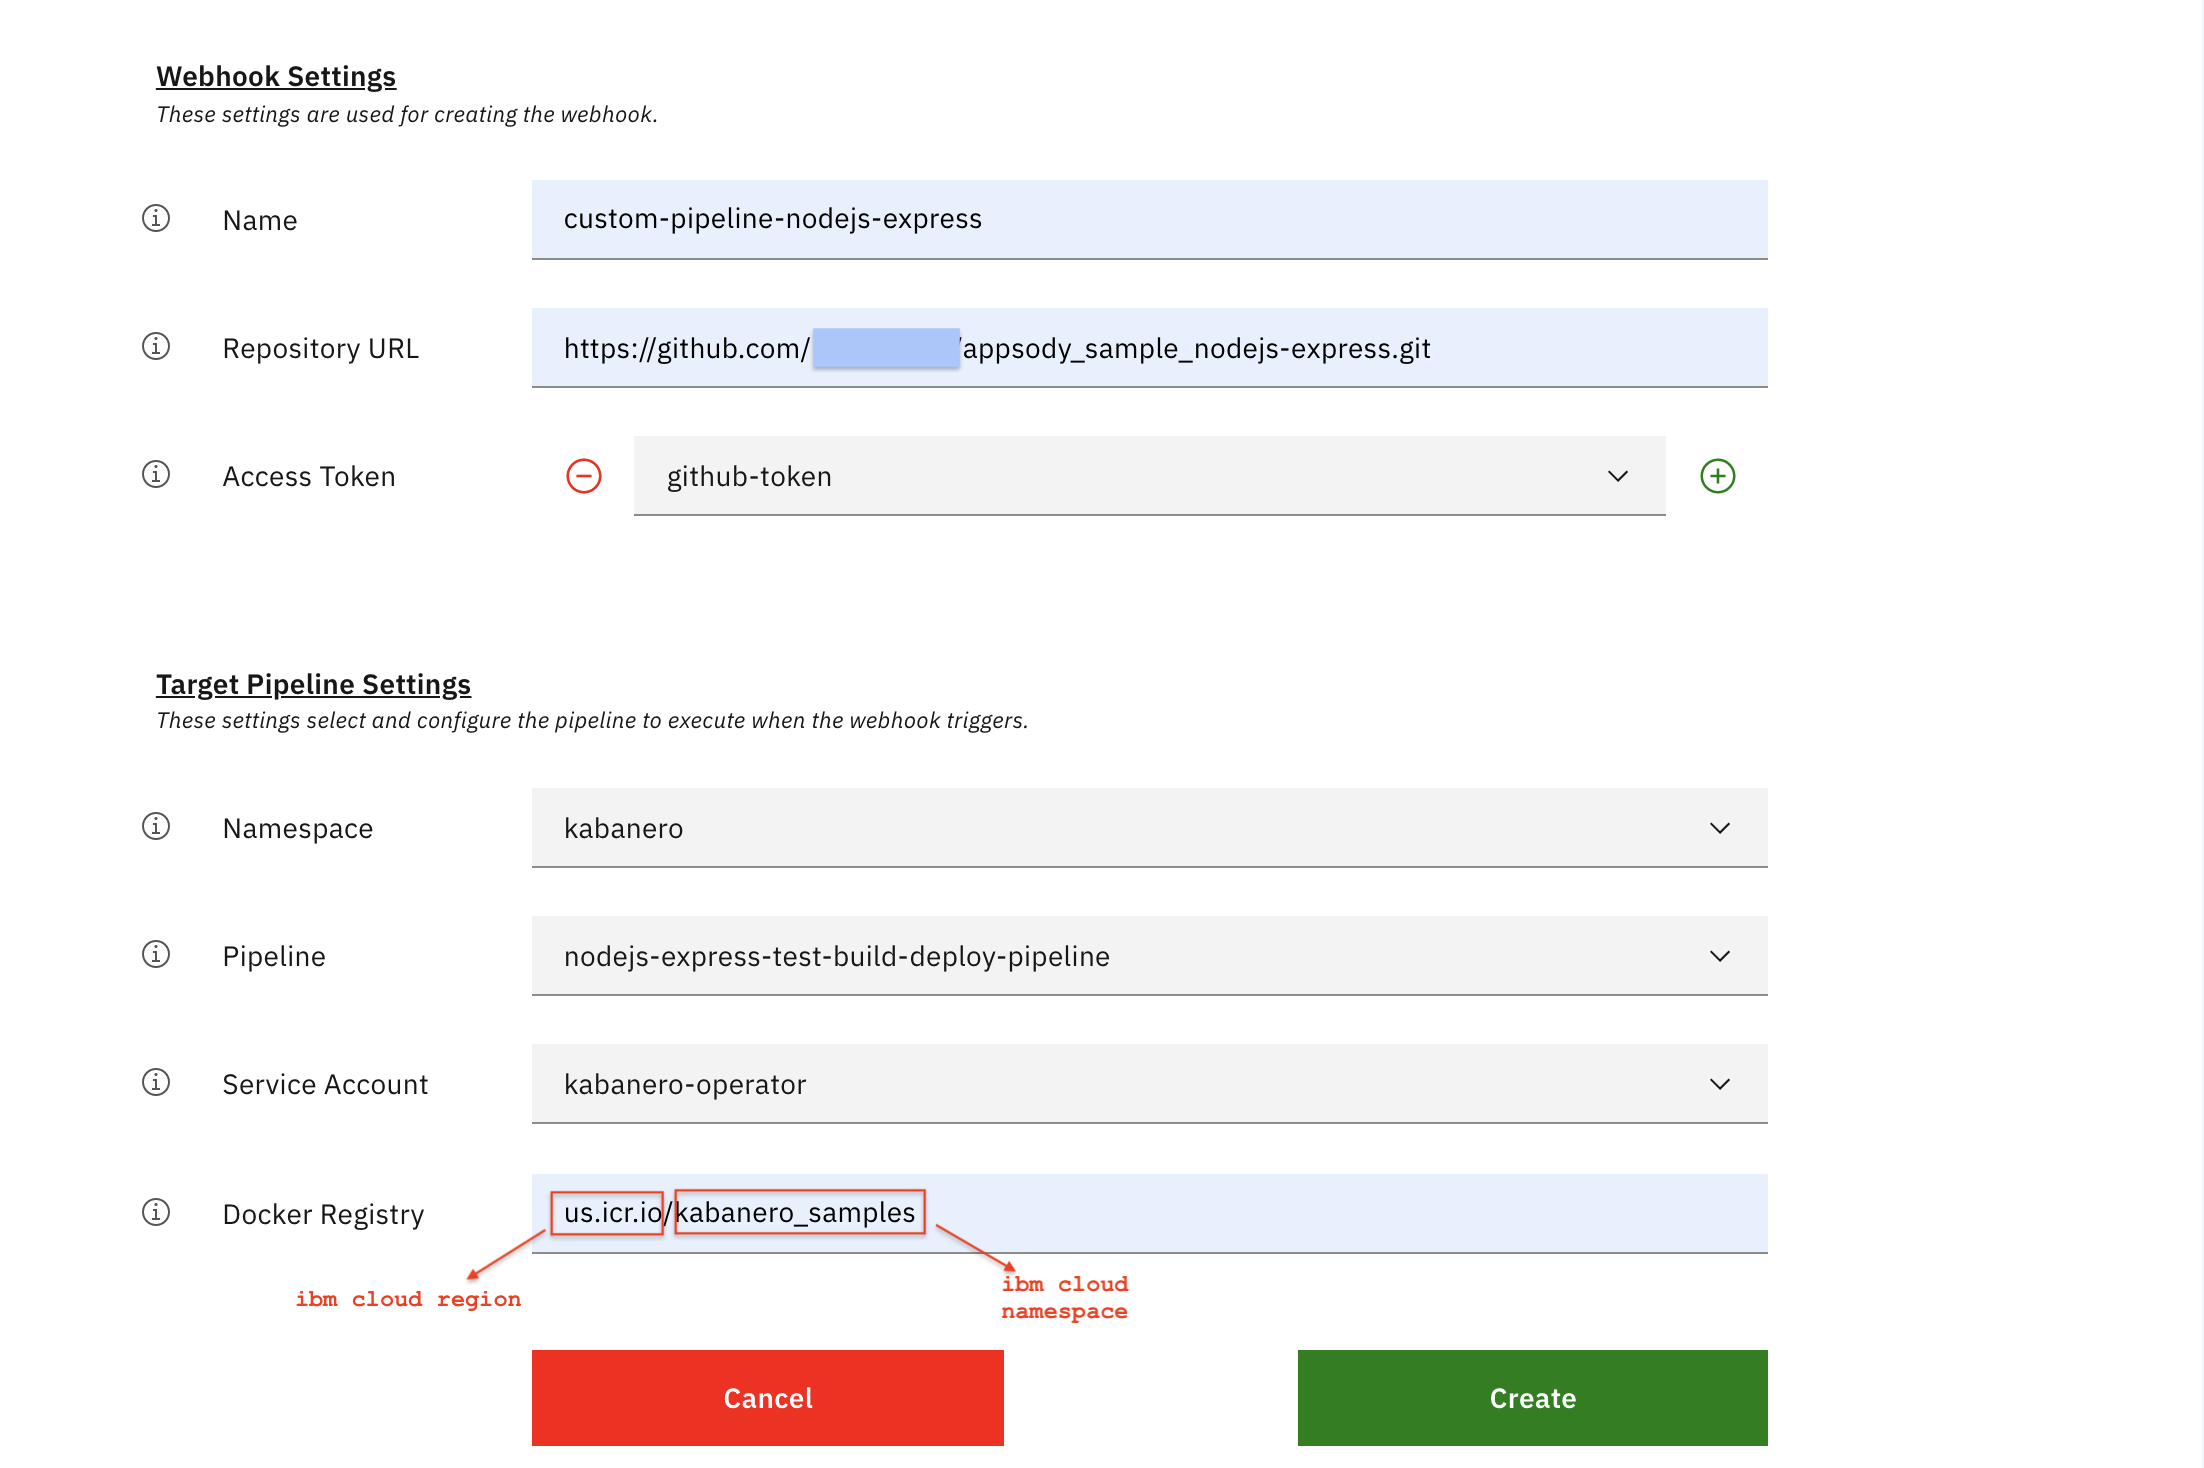
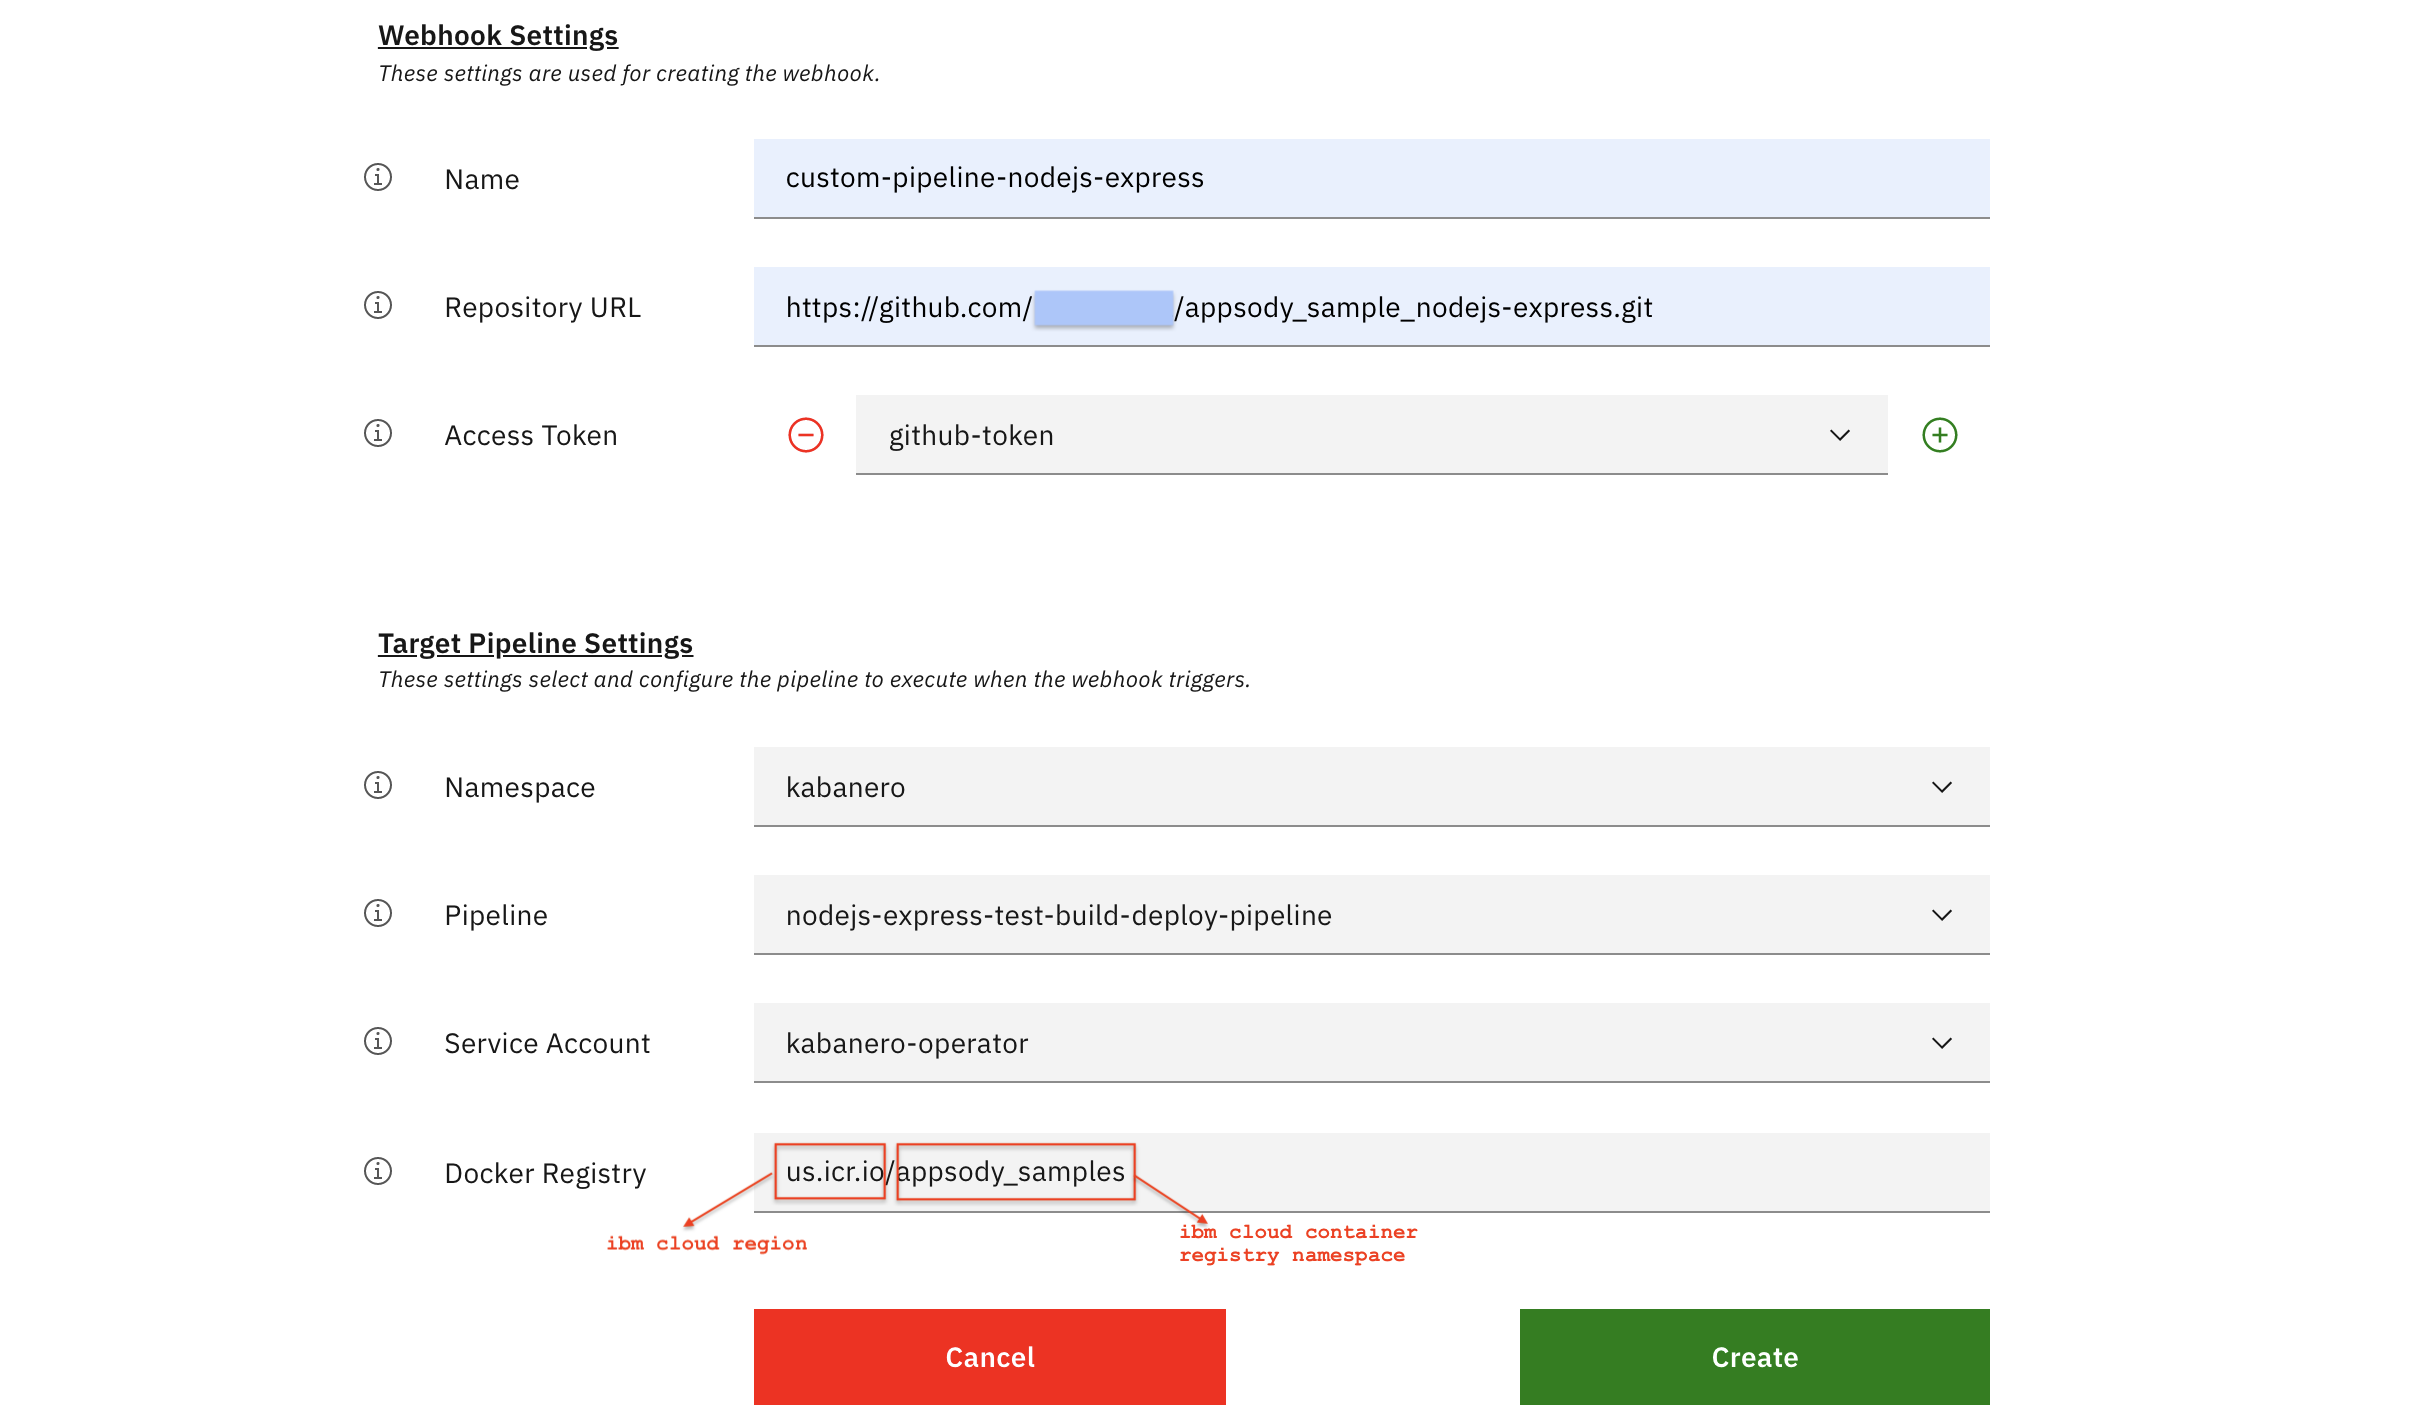
[skip ci] Publishing new documentation

diff --git a/web/1.0.0/tekton-credentials-docker.html b/web/1.0.0/tekton-credentials-docker.html
@@ -264,7 +264,7 @@ If you have a federated ID, use <code>ibmcloud login --sso</code> to log in to t
 <div class="ulist">
 <ul>
 <li>
-<p>Create a namespace.</p>
+<p>Create an IBM cloud container registry namespace.</p>
 </li>
 </ul>
 </div>
@@ -278,7 +278,7 @@ If you have a federated ID, use <code>ibmcloud login --sso</code> to log in to t
 </div>
 <div class="listingblock">
 <div class="content">
-<pre class="highlightjs highlight"><code class="language-bash hljs" data-lang="bash">ibmcloud cr namespace-add kabanero_samples</code></pre>
+<pre class="highlightjs highlight"><code class="language-bash hljs" data-lang="bash">ibmcloud cr namespace-add appsody_samples</code></pre>
 </div>
 </div>
 <div class="paragraph">
@@ -286,10 +286,10 @@ If you have a federated ID, use <code>ibmcloud login --sso</code> to log in to t
 </div>
 <div class="listingblock">
 <div class="content">
-<pre class="highlightjs highlight"><code class="language-bash hljs" data-lang="bash">$ ibmcloud cr namespace-add kabanero_samples
-Adding namespace 'kabanero_samples'...
+<pre class="highlightjs highlight"><code class="language-bash hljs" data-lang="bash">$ ibmcloud cr namespace-add appsody_samples
+Adding namespace 'appsody_samples'...
 
-Successfully added namespace 'kabanero_samples'
+Successfully added namespace 'appsody_samples'
 
 OK</code></pre>
 </div>
@@ -426,42 +426,70 @@ secret/ibm-cr-push-secret annotated</code></pre>
 <div class="paragraph">
 <p>Direct the service account to use this secret.</p>
 </div>
+<div class="sect3">
+<h4 id="_using_tekton_dashboard"><a class="anchor" href="#_using_tekton_dashboard"></a>Using Tekton dashboard</h4>
 <div class="ulist">
 <ul>
 <li>
-<p>For this, create a yaml file named <code>serviceaccount.yaml</code> as follows.</p>
+<p>Go to the the tekton home.</p>
+</li>
+</ul>
+</div>
+<div class="imageblock text-center">
+<div class="content">
+<img src="_images/nodejs_tekton_home_secrets.png" alt="nodejs tekton home secrets">
+</div>
+</div>
+<div class="ulist">
+<ul>
+<li>
+<p>Select <code>Secrets</code> and then click on <code>Add Secret</code>.</p>
+</li>
+</ul>
+</div>
+<div class="imageblock text-center">
+<div class="content">
+<img src="_images/nodejs_tekton_home_secret_add.png" alt="nodejs tekton home secret add">
+</div>
+</div>
+<div class="ulist">
+<ul>
+<li>
+<p>Create the secret and link it to the service account.</p>
+</li>
+</ul>
+</div>
+<div class="imageblock text-center">
+<div class="content">
+<img src="_images/nodejs_tekton_secret_link_sa.png" alt="nodejs tekton secret link sa">
+</div>
+</div>
+<div class="ulist">
+<ul>
+<li>
+<p>Verify if the secret is linked successfully.</p>
+</li>
+</ul>
+</div>
+<div class="imageblock text-center">
+<div class="content">
+<img src="_images/nodejs_tekton_secret_list.png" alt="nodejs tekton secret list">
+</div>
+</div>
+</div>
+<div class="sect3">
+<h4 id="_using_cli"><a class="anchor" href="#_using_cli"></a>Using CLI</h4>
+<div class="ulist">
+<ul>
+<li>
+<p>Alternatively, you can do this using CLI as follows.</p>
 </li>
 </ul>
 </div>
 <div class="listingblock">
 <div class="content">
-<pre class="highlightjs highlight"><code class="language-yaml hljs" data-lang="yaml">apiVersion: v1
-kind: ServiceAccount
-metadata:
-  name: kabanero-operator
-secrets:
-- name: ibm-cr-push-secret</code></pre>
+<pre class="highlightjs highlight"><code class="language-bash hljs" data-lang="bash">oc secrets link kabanero-operator ibm-cr-push-secret -n kabanero</code></pre>
 </div>
-</div>
-<div class="ulist">
-<ul>
-<li>
-<p>Run this command.</p>
-</li>
-</ul>
-</div>
-<div class="listingblock">
-<div class="content">
-<pre class="highlightjs highlight"><code class="language-bash hljs" data-lang="bash">oc apply -f serviceaccount.yaml -n kabanero</code></pre>
-</div>
-</div>
-<div class="paragraph">
-<p>If it is done successfully, you will see the below.</p>
-</div>
-<div class="listingblock">
-<div class="content">
-<pre class="highlightjs highlight"><code class="language-bash hljs" data-lang="bash">$ oc apply -f serviceaccount.yaml -n kabanero
-serviceaccount/kabanero-operator configured</code></pre>
 </div>
 </div>
 </div>
@@ -564,26 +592,6 @@ serviceaccount/appsody-sample-nodejs-express created</code></pre>
 <pre class="highlightjs highlight"><code class="language-bash hljs" data-lang="bash">$ oc secrets link appsody-sample-nodejs-express external-registry --for=pull -n kabanero-samples</code></pre>
 </div>
 </div>
-<div class="ulist">
-<ul>
-<li>
-<p>To use a secret for pushing and pulling build images, the secret must be mountable inside of a pod.</p>
-</li>
-</ul>
-</div>
-<div class="listingblock">
-<div class="content">
-<pre class="highlightjs highlight"><code class="language-bash hljs" data-lang="bash">oc secrets link builder &lt;pull_secret_name&gt; -n &lt;namespace&gt;</code></pre>
-</div>
-</div>
-<div class="paragraph">
-<p>It will be something like below.</p>
-</div>
-<div class="listingblock">
-<div class="content">
-<pre>$ oc secrets link builder external-registry -n kabanero-samples</pre>
-</div>
-</div>
 </div>
 </div>
 <div class="sect1">
@@ -592,31 +600,7 @@ serviceaccount/appsody-sample-nodejs-express created</code></pre>
 <div class="ulist">
 <ul>
 <li>
-<p>Access the tekton dashboard and now you should be able to see the pipeline in the list.</p>
-</li>
-</ul>
-</div>
-<div class="imageblock text-center">
-<div class="content">
-<img src="_images/nodejs_custom_pipeline_tekton_home.png" alt="nodejs custom pipeline tekton home">
-</div>
-</div>
-<div class="ulist">
-<ul>
-<li>
-<p>Configure the github webhook to your repo. Go to <code>Webhooks</code> &gt; <code>Add Webhook</code> and then create the webhook.</p>
-</li>
-</ul>
-</div>
-<div class="imageblock text-center">
-<div class="content">
-<img src="_images/nodejs_custom_pipeline_tekton_webhook.png" alt="nodejs custom pipeline tekton webhook">
-</div>
-</div>
-<div class="ulist">
-<ul>
-<li>
-<p>To get the ibm cloud region, run the below command.</p>
+<p>Get the IBM cloud region.</p>
 </li>
 </ul>
 </div>
@@ -639,7 +623,7 @@ OK</code></pre>
 <div class="ulist">
 <ul>
 <li>
-<p>To get the ibm cloud namespace, run the below command.</p>
+<p>Get the IBM cloud container registry namespace.</p>
 </li>
 </ul>
 </div>
@@ -657,9 +641,66 @@ OK</code></pre>
 Listing namespaces for account 'Cloud Client Engagement Team's Account' in registry 'us.icr.io'...
 
 Namespace
-kabanero_samples
+appsody_samples
 
 OK</code></pre>
+</div>
+</div>
+<div class="ulist">
+<ul>
+<li>
+<p>If you did not create one earlier, run the below steps.</p>
+</li>
+</ul>
+</div>
+<div class="listingblock">
+<div class="content">
+<pre class="highlightjs highlight"><code class="language-bash hljs" data-lang="bash">ibmcloud cr namespace-add &lt;my_namespace&gt;</code></pre>
+</div>
+</div>
+<div class="paragraph">
+<p>For instance, we used</p>
+</div>
+<div class="listingblock">
+<div class="content">
+<pre class="highlightjs highlight"><code class="language-bash hljs" data-lang="bash">ibmcloud cr namespace-add appsody_samples</code></pre>
+</div>
+</div>
+<div class="paragraph">
+<p>Once created, you will see something like below.</p>
+</div>
+<div class="listingblock">
+<div class="content">
+<pre class="highlightjs highlight"><code class="language-bash hljs" data-lang="bash">$ ibmcloud cr namespace-add appsody_samples
+Adding namespace 'appsody_samples'...
+
+Successfully added namespace 'appsody_samples'
+
+OK</code></pre>
+</div>
+</div>
+<div class="ulist">
+<ul>
+<li>
+<p>Access the tekton dashboard and now you should be able to see the pipeline in the list.</p>
+</li>
+</ul>
+</div>
+<div class="imageblock text-center">
+<div class="content">
+<img src="_images/nodejs_custom_pipeline_tekton_home.png" alt="nodejs custom pipeline tekton home">
+</div>
+</div>
+<div class="ulist">
+<ul>
+<li>
+<p>Configure the github webhook to your repo. Go to <code>Webhooks</code> &gt; <code>Add Webhook</code> and then create the webhook.</p>
+</li>
+</ul>
+</div>
+<div class="imageblock text-center">
+<div class="content">
+<img src="_images/nodejs_custom_pipeline_tekton_webhook.png" alt="nodejs custom pipeline tekton webhook">
 </div>
 </div>
 <div class="ulist">
